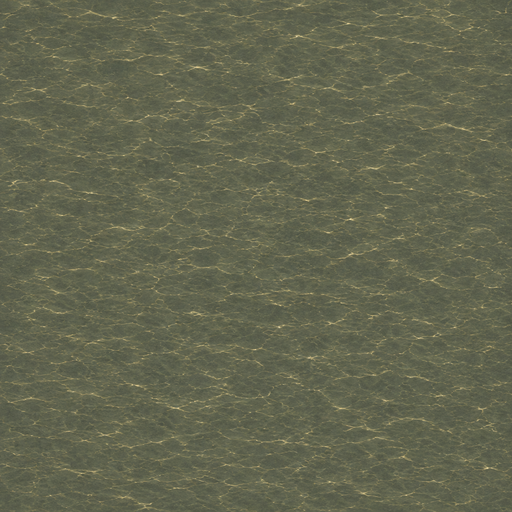
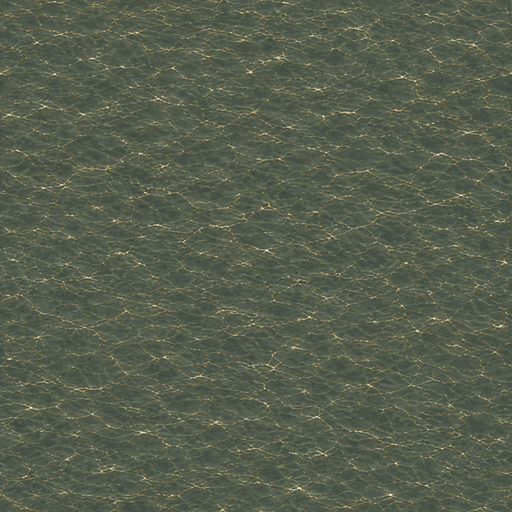
fix: resize tile_base_water to 512x512 and apply seamless rendering

Changed region(s): [[0.0, 0.0, 1.0, 1.0]]

diff --git a/sanguobaye-web/src/view/screens/BattleScreen.tsx b/sanguobaye-web/src/view/screens/BattleScreen.tsx
@@ -308,7 +308,7 @@ export const BattleScreen: React.FC = () => {
                                                 ? `url(${WATER_MAP_BACKGROUND_IMAGE})`
                                                 : (terrainLayers.baseImage ? `url(${terrainLayers.baseImage})` : undefined),
                                             backgroundRepeat: isWater ? 'repeat' : undefined,
-                                            backgroundSize: isWater ? `${TILE_SIZE}px ${TILE_SIZE}px` : 'cover',
+                                            backgroundSize: isWater ? '512px 512px' : 'cover',
                                             backgroundPosition: isWater ? `${-x * TILE_SIZE}px ${-y * TILE_SIZE}px` : 'center',
                                             boxSizing: 'border-box',
                                             cursor: (isReachable || isAttackable) ? 'pointer' : 'default',
